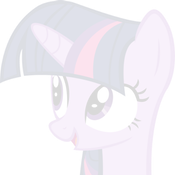
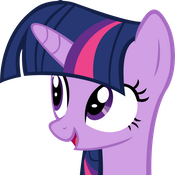
Replace Twilight, remove Dash hiding until I think of a better solution

diff --git a/script.js b/script.js
@@ -3,12 +3,10 @@ $(document).ready(function(){
 		$('.modal').addClass("modal-show");
 		$('section,header,nav,footer').addClass("blur");
 		$('.button').css({"pointer-events" : "none"});
-		$('body').css({"background" : "#36393e"});
 	});
 	$('section,header').mouseup(function(){
 		$('.modal').removeClass("modal-show");
 		$('section,header,nav,footer').removeClass("blur");
 		$('.button').css({"pointer-events" : "initial"});
-		$('body').css({"background" : "#36393e url('img/rdsalute_bg.png') fixed right bottom no-repeat"});
 	});
 });
